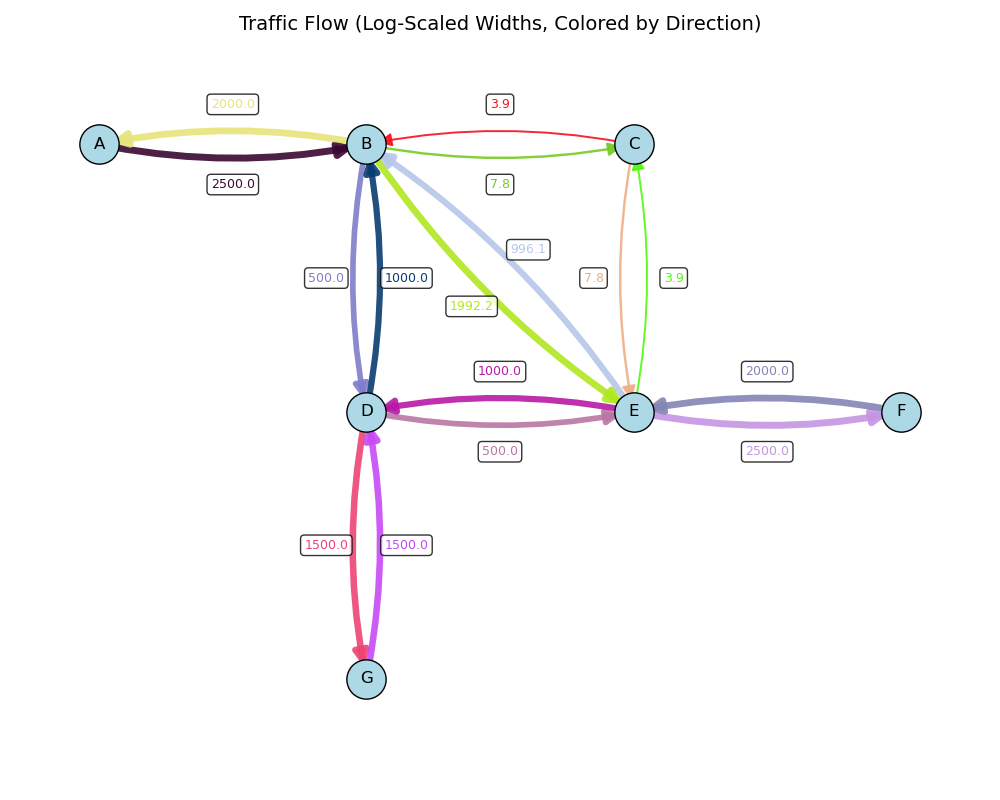
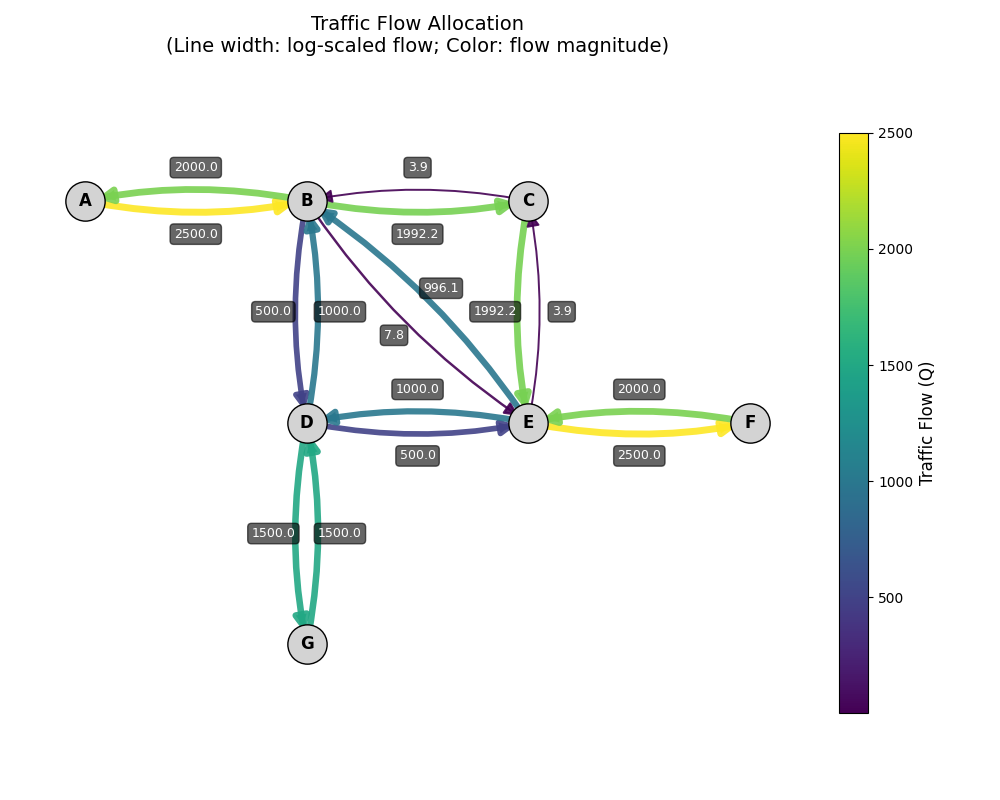
统一部分变量名

Changed region(s): [[0.062, 0.125, 0.93, 0.9062], [0.186, 0.0, 0.744, 0.0625]]

diff --git a/main.py b/main.py
@@ -1,38 +1,37 @@
+import json
 import numpy as np
-import pandas as pd
 import networkx as nx
 import time
-import random
 from collections import defaultdict
 from tqdm import *
 import argparse
 import matplotlib.pyplot as plt
+import matplotlib.cm as cm
+import matplotlib.colors as mcolors
 
 from algorithm.optimal_minimized import find_optimal_alpha
 from algorithm.dijkstra_shortest import dijkstra
 
-import json
-
 def build_network_from_json(network_file, demand_file):
     # 读取 network.json
     with open(network_file, 'r', encoding='utf-8') as f:
-        net = json.load(f)
+        network = json.load(f)
     
     # 读取 demand.json
     with open(demand_file, 'r', encoding='utf-8') as f:
-        dem = json.load(f)
+        demand = json.load(f)
 
     # 构建节点坐标字典（用于后续可视化）
-    node_names = net['nodes']['name']
-    xs = net['nodes']['x']
-    ys = net['nodes']['y']
+    node_names = network['nodes']['name']
+    xs = network['nodes']['x']
+    ys = network['nodes']['y']
     pos_dict = {name: (x, y) for name, x, y in zip(node_names, xs, ys)}
 
     # 构建有向图 G
     G = nx.DiGraph()
 
     # 添加路段（links）
-    links = net['links']
+    links = network['links']
     for i, link_str in enumerate(links['between']):
         u = link_str[0]  # 起点
         v = link_str[1]  # 终点
@@ -51,10 +50,9 @@ def build_network_from_json(network_file, demand_file):
         G.add_edge(u, v, t0=t0, C=capacity)
         G.add_edge(v, u, t0=t0, C=capacity)
 
-
     # 构建 OD 需求字典
     od_pairs = {}
-    for o, d, q in zip(dem['from'], dem['to'], dem['amount']):
+    for o, d, q in zip(demand['from'], demand['to'], demand['amount']):
         od_pairs[(o, d)] = q
 
     # 初始化流量 Q
@@ -63,16 +61,16 @@ def build_network_from_json(network_file, demand_file):
 
     return G, od_pairs, pos_dict
 
-def all_or_nothing_assignment(G, od_groups):
+def all_or_nothing_assignment(G, od_pairs):
     """
     全有全无分配：根据当前图 G 的阻抗（边属性 't'），将 OD 流量加载到最短路径。
     
     参数:
         G: networkx.DiGraph，边需包含 't' 属性（旅行时间）
-        od_groups: dict，格式 {origin: [(dest, flow), ...]}
+        od_pairs: dict，格式 {origin: [(dest, flow), ...]}
     
     返回:
-        y: np.ndarray，长度 = len(G.edges())，顺序与 list(G.edges()) 严格一致
+        y: np.ndarray，边流量向量
     """
     # 获取边列表并建立索引映射（顺序固定）
     edges = list(G.edges())
@@ -82,10 +80,10 @@ def all_or_nothing_assignment(G, od_groups):
     y = np.zeros(len(edges))
     
     # 对每个起点 o 计算最短路径树
-    for o in od_groups:
+    for o in od_pairs:
         try:
             paths = dijkstra(G, o, weight='t')  # 假设 dijkstra 支持 weight 参数
-            for d, q in od_groups[o]:
+            for d, q in od_pairs[o]:
                 if d in paths:
                     path = paths[d]
                     # 遍历路径上的每一段边
@@ -100,7 +98,17 @@ def all_or_nothing_assignment(G, od_groups):
 
 
 def FW_allocation(G, od_pairs, max_iter, tol):
-
+    """
+    Ford-Warshall 分配算法：根据当前图 G 的阻抗（边属性 't'），将 OD 流量加载到最短路径。
+    
+    参数:
+        G: networkx.DiGraph，边需包含 't' 属性（旅行时间）
+        od_pairs: dict，格式 {origin: [(dest, flow), ...]}
+        max_iter: int，最大迭代次数
+        tol: float，收敛阈值
+    返回:
+        G: networkx.DiGraph，边属性 'Q' 更新为分配后的流量
+    """
     # 预处理边列表和属性数组
     edges = list(G.edges())
     t0_arr = np.array([G[u][v]['t0'] for u, v in edges])
@@ -145,11 +153,14 @@ def FW_allocation(G, od_pairs, max_iter, tol):
 
     return G
 
-def visulize_network(G, pos_dict):
-    import matplotlib.pyplot as plt
-    import matplotlib.cm as cm
-    import matplotlib.colors as mcolors
 
+def visulize_network(G, pos_dict):
+    """
+    可视化网络：绘制网络图，并显示每条边的流量。
+    参数：
+        G: networkx.DiGraph，边需包含 'Q' 属性（流量）
+        pos_dict: dict，节点坐标字典
+    """
     plt.figure(figsize=(10, 8))
     
     edges = list(G.edges())
@@ -176,9 +187,8 @@ def visulize_network(G, pos_dict):
         widths.append(width)
 
     # === 颜色映射：根据流量大小使用连续 colormap（如 plasma, viridis, 或 RdBu）===
-    # 这里我们使用 'plasma'（紫→红→黄），也可换为 'viridis', 'coolwarm' 等
     norm = mcolors.Normalize(vmin=min_flow, vmax=max_flow)
-    cmap = cm.plasma  # 或 cm.viridis, cm.coolwarm, cm.Reds 等
+    cmap = cm.viridis  
 
     edge_colors = [cmap(norm(flow)) for flow in flows]
 
@@ -261,7 +271,7 @@ if __name__ == '__main__':
     parser.add_argument('--network', type=str, default='data/network.json', help='Path to network.json')
     parser.add_argument('--demand', type=str, default='data/demand.json', help='Path to demand.json')
     parser.add_argument('--max_iter', type=int, default=200)  # 迭代次数max_iter越大，精度越高
-    parser.add_argument('--tol', type=float, default=1e-6)   # 迭代终止条件tol越小，精度越高
+    parser.add_argument('--tol', type=float, default=1e-9)   # 迭代终止条件tol越小，精度越高
     args = parser.parse_args()
 
     # 构建网络
